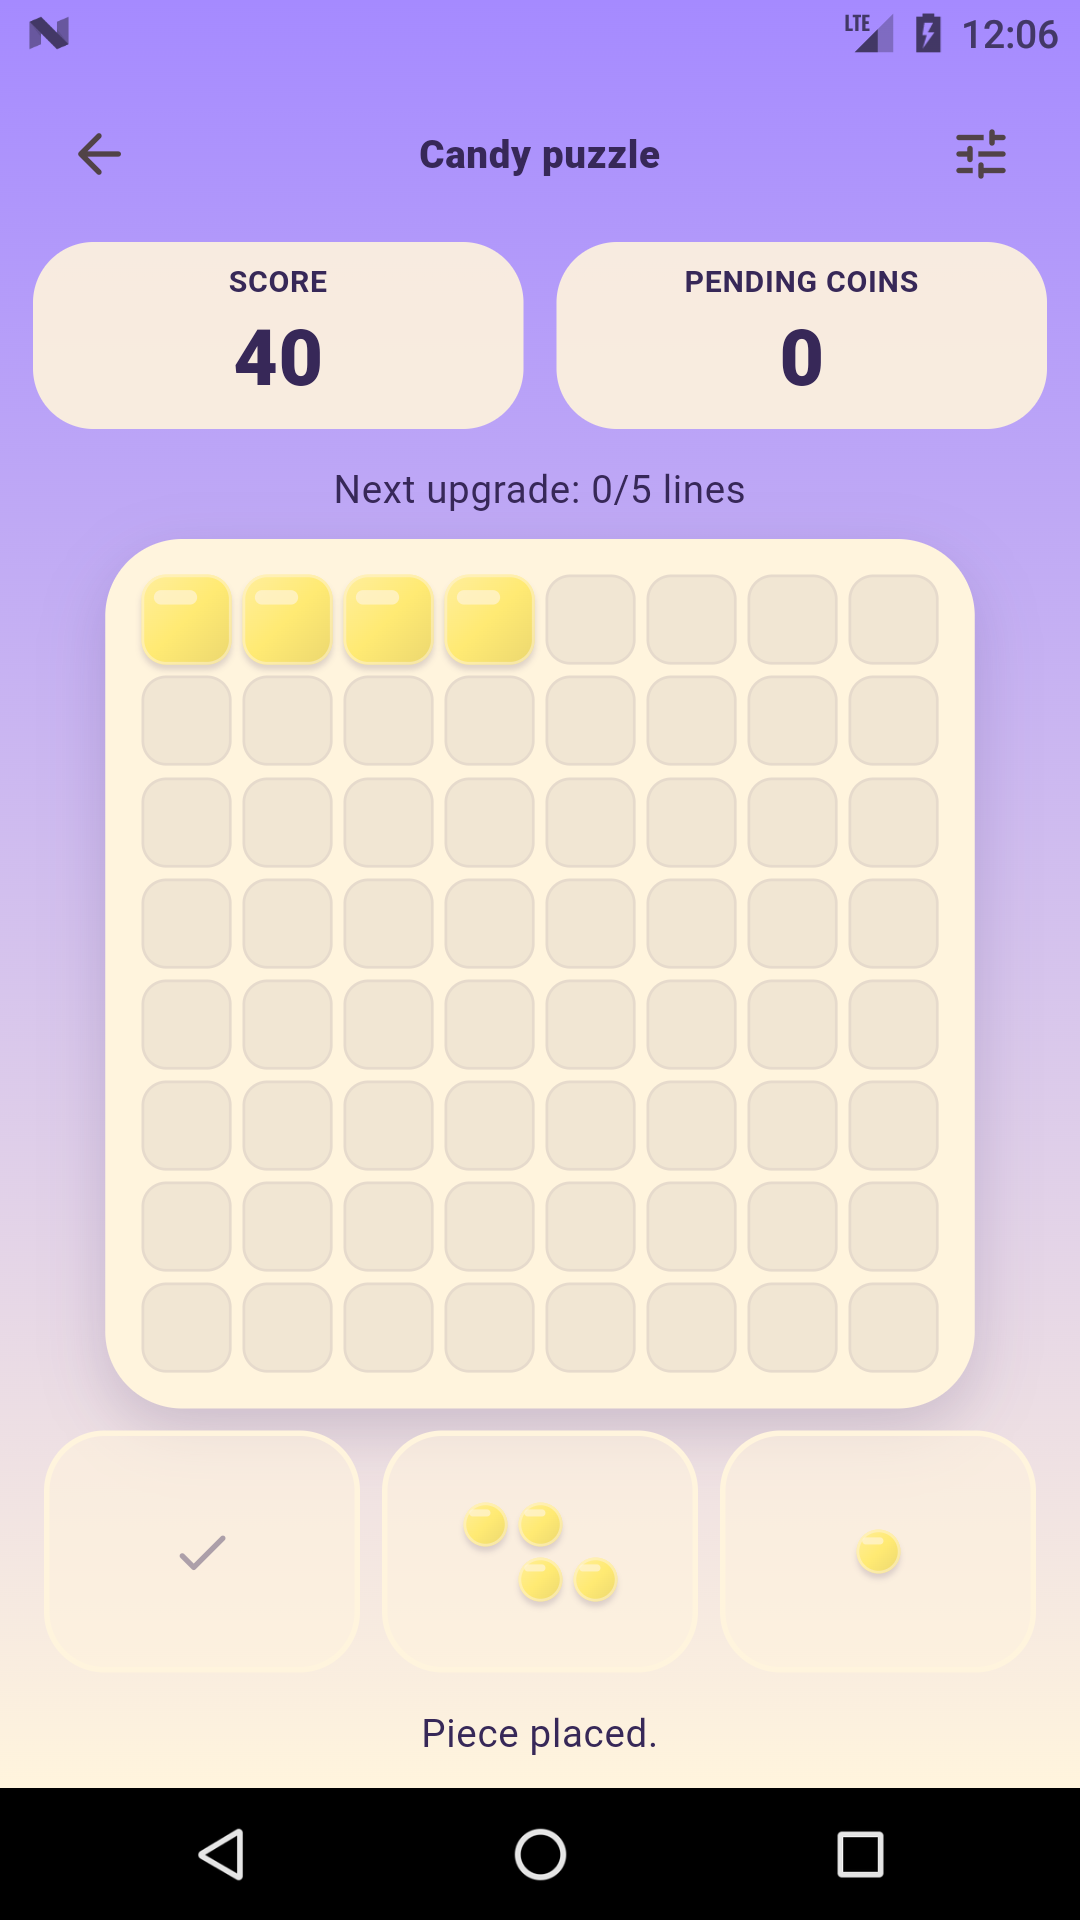
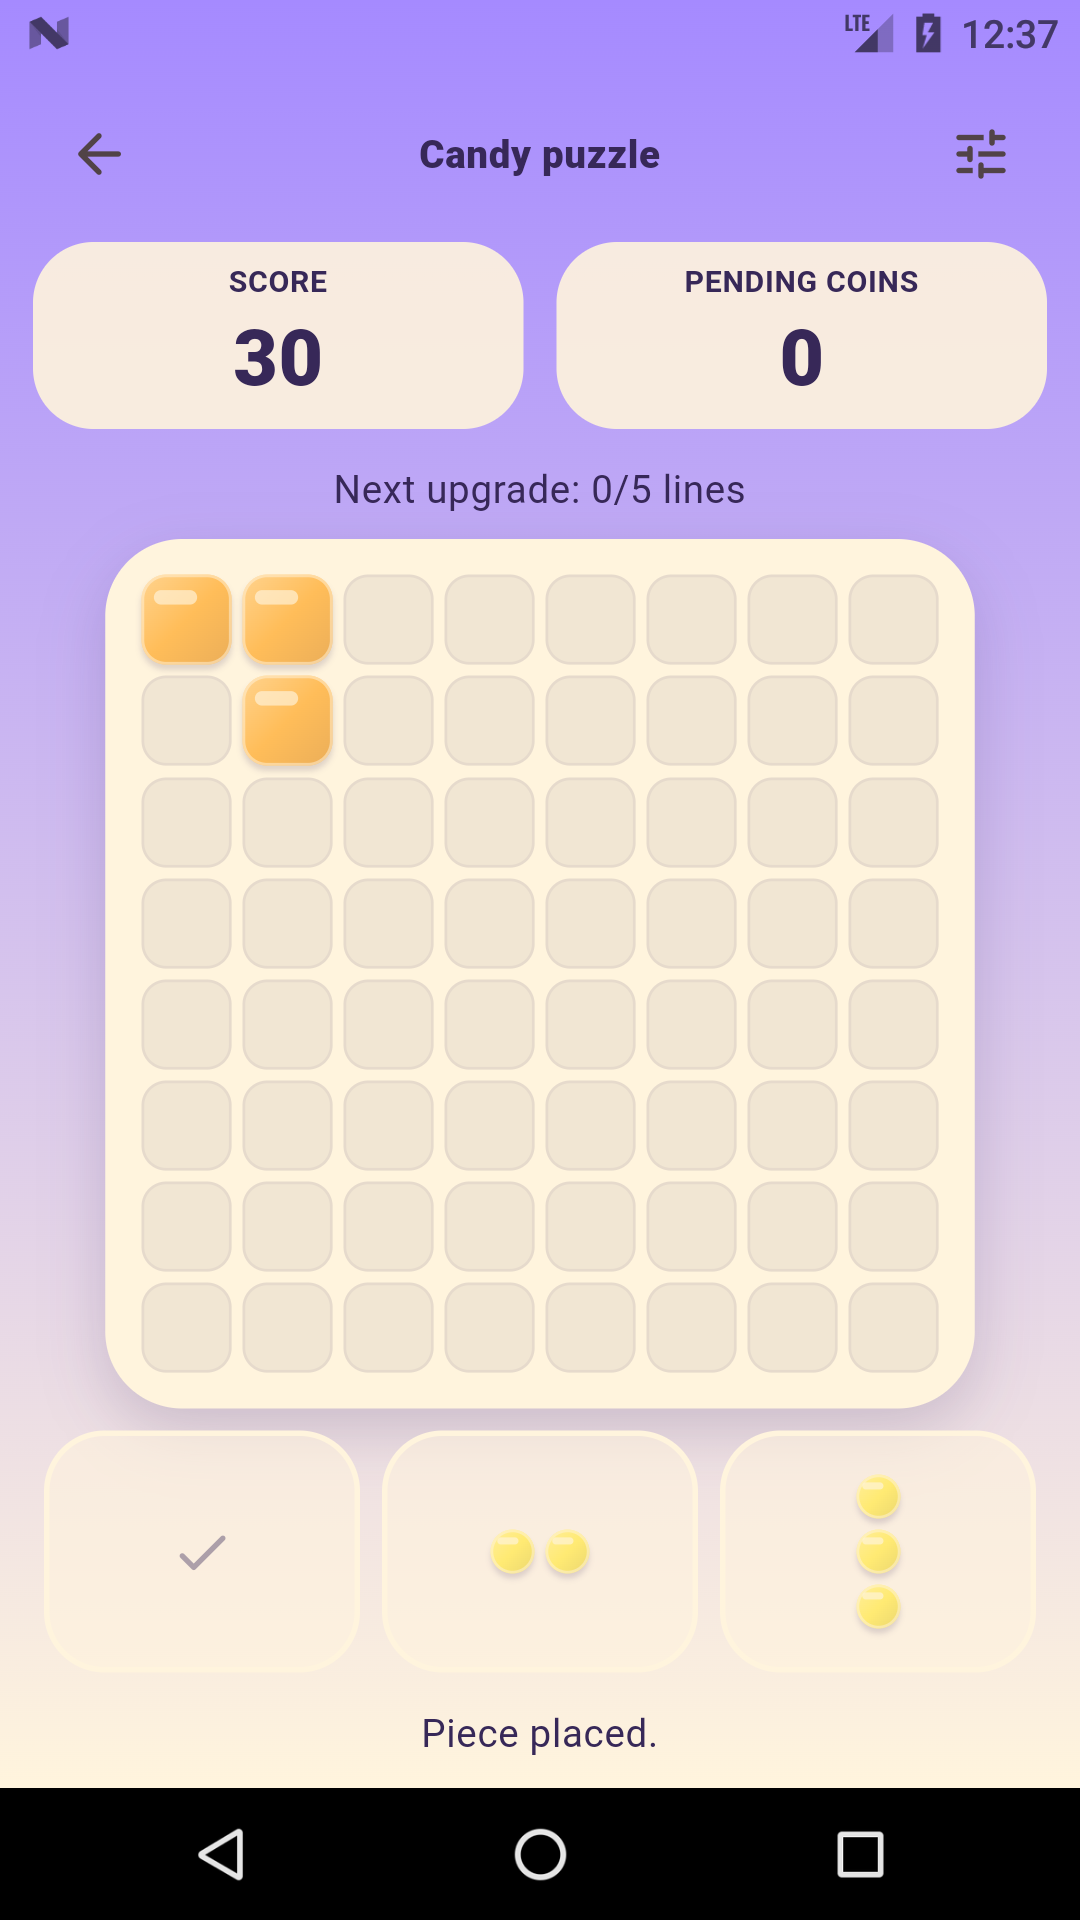
docs: preserve final code 3 compatibility reports and native captures

diff --git a/docs/KINGDOM_RELEASE_REPORT.md b/docs/KINGDOM_RELEASE_REPORT.md
@@ -42,15 +42,22 @@ próba drugiego dotyku nie zmienia stanu. Animacje lokalne pozostają.
   zainstalowany na telefonie (odłączony); nie przypisujemy mu ręcznego PASS.
   Baseline renderowanej oprawy/telefonu code2 jest opisany oddzielnie.
 
-## CI nowego źródła — oczekuje zakończenia
+## CI nowego źródła
 
-- Flutter38734971516.
+- [Flutter38734971516 SUCCESS](https://github.com/RochZaremba/Candyverse-Block-Bloom/actions/runs/38734971516):194Flutter/71Dart/19Python/analyze/debugAPK.
 - Signed Android compatibility38734971548: API36/APK, API35/16KB/APK
-  i API36/universal PASS w pierwszej próbie. API24 wymaga ponowienia: UI
+  i API36/universal PASS w pierwszej próbie. API24 w pierwszej próbie wymagało ponowienia: UI
   zasłoniło systemowe okno „Messenger has stopped”, a Candyverse Home był
   wyrenderowany pod nim. [Zachowany zrzut awarii infrastruktury](qa/kingdom-code3-api24-attempt1-failure.png).
   XML/logi są lokalnie w qa-code3-signed-attempt1/api24. Nie zaliczono tej próby;
-  powtarzany jest wyłącznie nieudany job na świeżym emulatorze, bez zmian APK.
+  powtórzono wyłącznie nieudany job na świeżym emulatorze, bez zmian APK.
+  **Finalnie wszystkie4PASS**,
+  [CI38734971548](https://github.com/RochZaremba/Candyverse-Block-Bloom/actions/runs/38734971548).
+  Pełne64pola identyczne po tle i force-stop, rzeczywisty input i PNG.
+  [API24](qa/kingdom-code3-signed-api24-pages4096-apk-default.json),
+  [API35/16KB](qa/kingdom-code3-signed-api35-pages16384-apk-default.json),
+  [API36/APK](qa/kingdom-code3-signed-api36-pages4096-apk-default.json),
+  [API36/z AAB](qa/kingdom-code3-signed-api36-pages4096-aab-default.json).
 - Android smoke38734971558:20min aktywnej gry, Android DataStore, dochód,
   poziom30, prestiż i wszystkie sześć ekranów; renderer CPU nie dowodzi GPU FPS.
 
@@ -59,7 +66,8 @@ próba drugiego dotyku nie zmienia stanu. Animacje lokalne pozostają.
 Lokalne assety/prompty: [provenance](../assets/kingdom/README.md),
 nowy [banner1024×500](../assets/store/kingdom_feature_graphic.png)
 i [prompt](../assets/store/KINGDOM_FEATURE_PROVENANCE.md), ikona512px i listing
-PL/EN. Nowe screenshoty muszą pochodzić z powyższego podpisanego code3.
+PL/EN. Nowe nieedytowane screenshoty Home/Game EN1080×1920 pochodzą z powyższego
+podpisanego code3: [provenance](../assets/store/screenshots/en/provenance.json).
 
 Zegar offline nie zapewnia antycheatu. Pełna rozbudowa bez fixture nie została
 ręcznie rozegrana; brak presji/codziennych terminów pozostaje kontraktem.

diff --git a/assets/store/screenshots/README.md b/assets/store/screenshots/README.md
@@ -1,9 +1,11 @@
 # Rzeczywiste screenshoty Android
 
-Candy Kingdom1.1.0+2: nieedytowane Home/Game EN1080×1920 z podpisanego
+Candy Kingdom1.1.0+3: nieedytowane Home/Game EN1080×1920 z podpisanego
 produkcyjnego APK, Android7/API24, rzeczywisty input i adb screencap.
-[Provenance i hashe](en/provenance.json), CI38731841152/headf060300.
+[Provenance i hashe](en/provenance.json), CI38734971548/head231258a.
 Bez fixture postępu i nakładek. To dowód renderu, nie wydajności telefonu.
+
+Zastąpiony code2 zachowano w `code2-en/`; nie jest materiałem nowego wydania.
 
 ## Historyczne1.0.0+1
 
